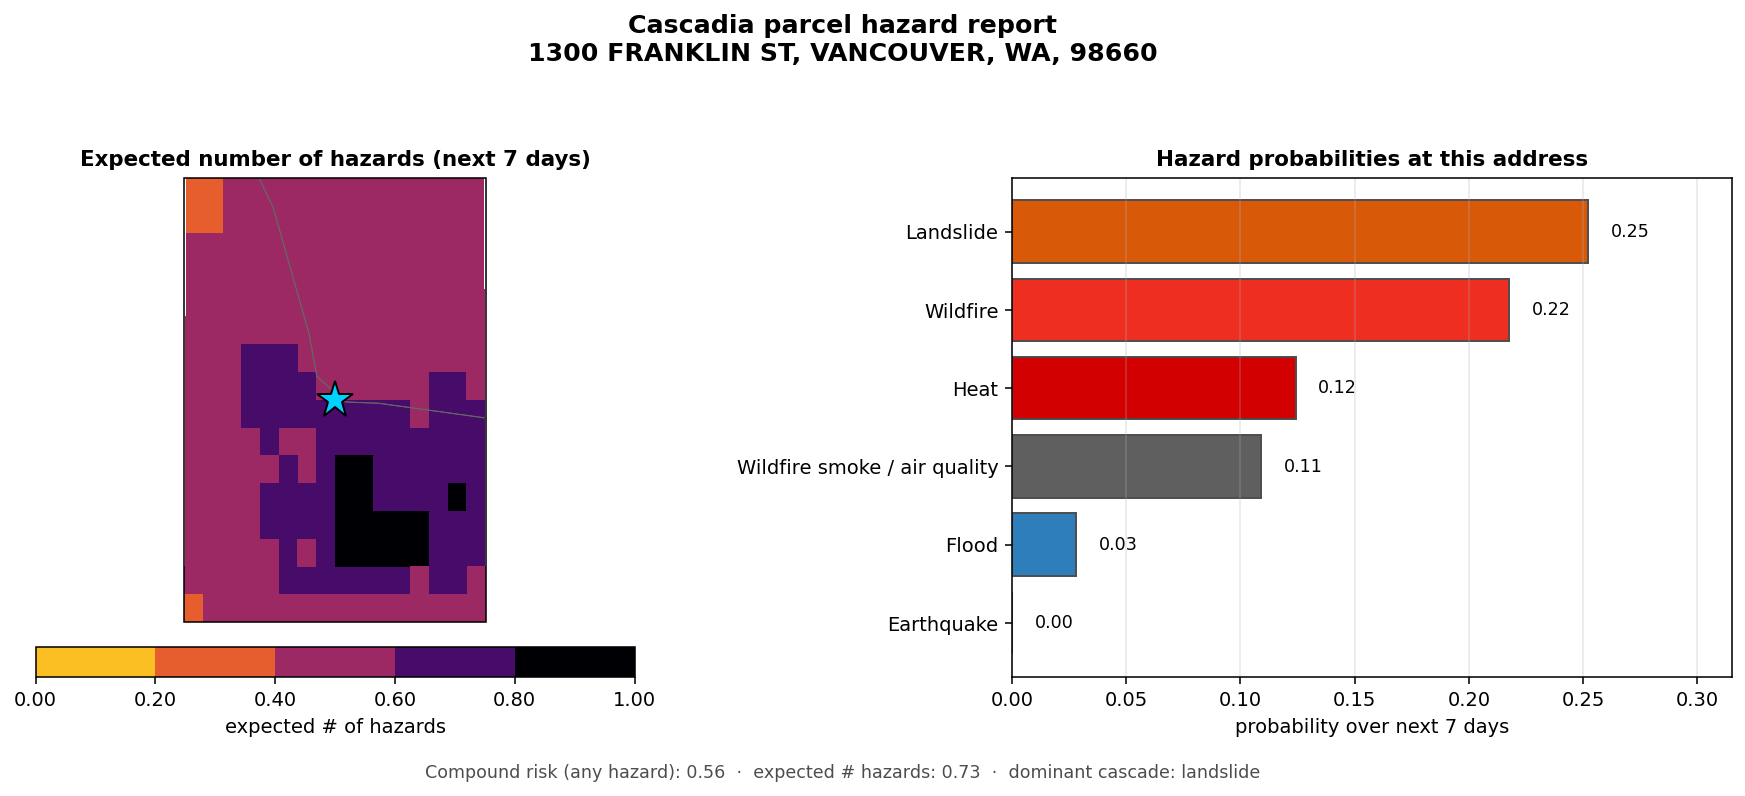
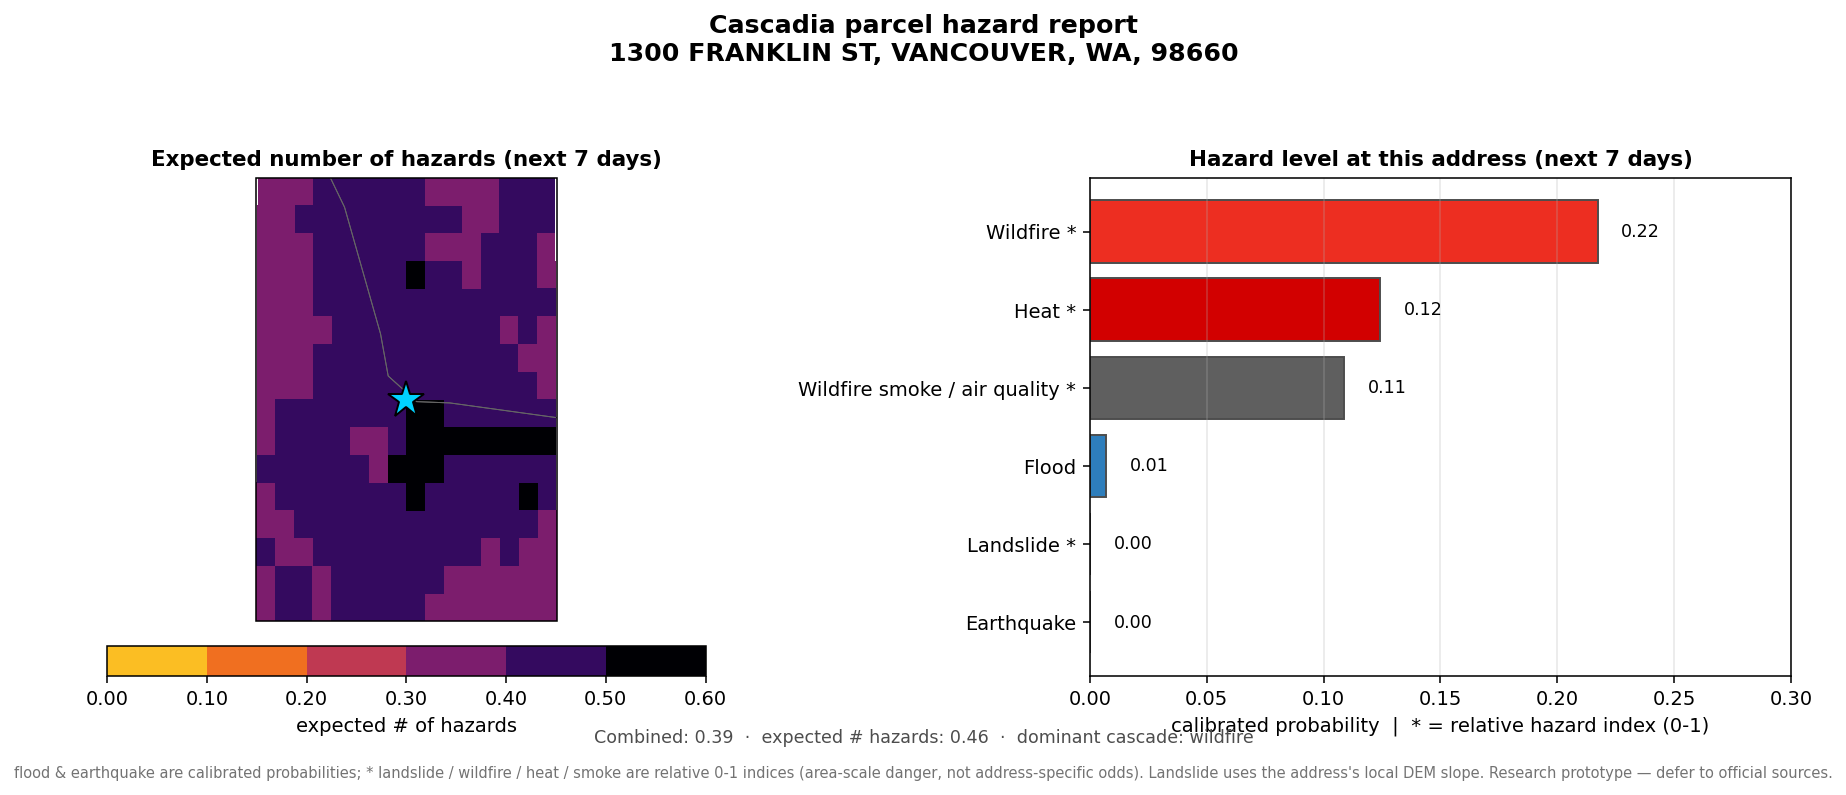
DEM slope for landslide + honest calibrated-vs-index labeling
Fixes the parcel example where a FLAT downtown lot showed landslide 0.25:
- sources/elevation.py: free Open-Meteo DEM -> per-cell slope (grid) and a
  fine local slope at a point (parcel), with a slope_factor (flat<3deg -> 0).
- _p_landslide now gates susceptibility by slope, so a flat lot in a slide-prone
  region is correctly stable. Wired into live + conditions pipelines; the parcel
  report uses the address's LOCAL 250m slope. Result: 1300 Franklin St landslide
  0.25 -> 0.00 (slope 1.2deg).
- Honest relabeling: predictors.HAZARD_KIND marks flood & earthquake as
  calibrated probabilities, landslide/wildfire/heat/smoke as relative 0-1
  indices. Parcel report (chart + footnote) and JSON (`note`, `hazard_kind`) and
  README now state this clearly.

diff --git a/cascadia/sources/elevation.py b/cascadia/sources/elevation.py
@@ -1,0 +1,95 @@
+"""Terrain slope from a free DEM (Open-Meteo elevation API, Copernicus ~90 m).
+
+Landslides are fundamentally a *slope* phenomenon, but the landslide-inventory
+density prior only knows *where slides have happened* regionally — it can't tell a
+flat valley floor from the hillside next to it. Adding slope fixes that: a flat
+downtown lot in a landslide-prone region is correctly downweighted.
+
+No API key. Elevation barely changes, so results are cached aggressively.
+"""
+from __future__ import annotations
+
+import hashlib
+import json
+from pathlib import Path
+
+import numpy as np
+import requests
+
+ELEV_URL = "https://api.open-meteo.com/v1/elevation"
+
+
+def _fetch_elevations(lats, lons, timeout: int = 60) -> np.ndarray:
+    """Elevation (m) for points, in chunks of 100 (the API limit)."""
+    lats, lons = np.asarray(lats, float), np.asarray(lons, float)
+    out = np.full(len(lats), np.nan)
+    for i in range(0, len(lats), 100):
+        sl = slice(i, i + 100)
+        params = {"latitude": ",".join(f"{v:.5f}" for v in lats[sl]),
+                  "longitude": ",".join(f"{v:.5f}" for v in lons[sl])}
+        try:
+            r = requests.get(ELEV_URL, params=params, timeout=timeout)
+            r.raise_for_status()
+            out[sl] = r.json()["elevation"]
+        except Exception:
+            pass
+    return out
+
+
+def point_slope(lat: float, lon: float, d: float = 0.0025) -> float:
+    """Local slope (degrees) at a point, from a ~250 m DEM stencil (center+NSEW)."""
+    pts_lat = [lat, lat + d, lat - d, lat, lat]
+    pts_lon = [lon, lon, lon, lon + d, lon - d]
+    e = _fetch_elevations(pts_lat, pts_lon)
+    if np.isnan(e).any():
+        return float("nan")
+    coslat = np.cos(np.radians(lat))
+    dz_dy = (e[1] - e[2]) / (2 * d * 111000.0)
+    dz_dx = (e[3] - e[4]) / (2 * d * 111000.0 * coslat)
+    return float(np.degrees(np.arctan(np.hypot(dz_dx, dz_dy))))
+
+
+def cell_slopes(cells, cache_dir: Path, res_deg: float) -> np.ndarray:
+    """Slope (degrees) per grid cell, from cell-centre elevations + neighbour
+    finite differences. Cached per region (elevation is static)."""
+    lats = cells["lat"].to_numpy(); lons = cells["lon"].to_numpy()
+    key = hashlib.sha1(
+        f"{lats.min():.3f}_{lats.max():.3f}_{lons.min():.3f}_{lons.max():.3f}"
+        f"_{res_deg}_{len(lats)}".encode()).hexdigest()[:16]
+    cache = Path(cache_dir) / f"slope_{key}.json"
+    if cache.exists():
+        try:
+            return np.array(json.loads(cache.read_text()))
+        except Exception:
+            pass
+    elev = _fetch_elevations(lats, lons)
+    look = {(round(la, 4), round(lo, 4)): e
+            for la, lo, e in zip(lats, lons, elev)}
+
+    def g(la, lo):
+        return look.get((round(la, 4), round(lo, 4)), np.nan)
+
+    slopes = np.zeros(len(lats))
+    for i, (la, lo) in enumerate(zip(lats, lons)):
+        e0 = elev[i]
+        if np.isnan(e0):
+            continue
+        en, es = g(la + res_deg, lo), g(la - res_deg, lo)
+        ee, ew = g(la, lo + res_deg), g(la, lo - res_deg)
+        en = e0 if np.isnan(en) else en; es = e0 if np.isnan(es) else es
+        ee = e0 if np.isnan(ee) else ee; ew = e0 if np.isnan(ew) else ew
+        coslat = np.cos(np.radians(la))
+        dz_dy = (en - es) / (2 * res_deg * 111000.0)
+        dz_dx = (ee - ew) / (2 * res_deg * 111000.0 * coslat)
+        slopes[i] = np.degrees(np.arctan(np.hypot(dz_dx, dz_dy)))
+    try:
+        cache.write_text(json.dumps(slopes.tolist()))
+    except Exception:
+        pass
+    return slopes
+
+
+def slope_factor(slope_deg) -> np.ndarray:
+    """Landslide slope susceptibility multiplier in [0,1]: ~0 below ~3 deg
+    (flat = stable), rising to 1 by ~20 deg. Linear ramp 3->20 degrees."""
+    return np.clip((np.asarray(slope_deg, float) - 3.0) / 17.0, 0.0, 1.0)

diff --git a/cascadia/parcel.py b/cascadia/parcel.py
@@ -11,6 +11,7 @@ from dataclasses import dataclass, field
 
 from pathlib import Path
 
+import numpy as np
 import pandas as pd
 
 from .config import Config
@@ -82,14 +83,33 @@ def assess_point(lat: float, lon: float, config: Config | None = None,
     res = run_pipeline(cfg, verbose=False)
     risk = res.risk
     d2 = (risk["lat"] - lat) ** 2 + (risk["lon"] - lon) ** 2
-    row = risk.loc[d2.idxmin()]
+    idx = d2.idxmin()
+    row = risk.loc[idx]
     hazards = {h: float(row[f"p_{h}"]) for h in
                ["earthquake", "landslide", "flood", "wildfire", "heat", "smoke"]
                if f"p_{h}" in row}
+
+    # Refine landslide with the ACTUAL local slope at the address (a ~250 m DEM
+    # stencil), instead of the ~5 km cell average — so a flat lot reads as stable.
+    try:
+        from .sources.elevation import point_slope
+        from .models.predictors import _p_landslide
+        feats = res.features
+        frow = feats[feats["cell_id"] == row["cell_id"]].iloc[0].copy()
+        slope = point_slope(lat, lon)
+        if np.isfinite(slope):
+            frow["slope_deg"] = slope
+            hazards["landslide"] = float(_p_landslide(pd.DataFrame([frow]))[0])
+    except Exception:
+        pass
+
+    # Recompute compound metrics from the (refined) per-hazard probabilities.
+    ps = np.array(list(hazards.values()))
+    compound = float(1 - np.prod(1 - ps))
+    expected = float(ps.sum())
     return ParcelRisk(
         lat=lat, lon=lon, address=address,
-        compound_risk=float(row["compound_risk"]),
-        expected_hazards=float(row["expected_hazards"]),
+        compound_risk=compound, expected_hazards=expected,
         dominant_chain=str(row.get("dominant_chain", "")),
         co_occurring=str(row.get("co_occurring", "")),
         hazards=hazards,
@@ -148,10 +168,12 @@ def parcel_report(address: str, out_path: str | Path = "cascadia_parcel_map.png"
                       shrink=1.0, fraction=0.06, pad=0.05, ticks=edges)
     cb.set_ticklabels([_fmt(e, vmax) for e in edges]); cb.set_label("expected # of hazards")
 
-    # Bar chart of this parcel's per-hazard probabilities.
+    # Bar chart of this parcel's per-hazard scores, flagging calibrated vs index.
+    from .models.predictors import CALIBRATED
     ax2 = fig.add_subplot(1, 2, 2)
     order = sorted(pr.hazards.items(), key=lambda kv: kv[1])
-    names = [HAZARD_TITLES.get(f"p_{k}", k) for k, _ in order]
+    names = [HAZARD_TITLES.get(f"p_{k}", k) + ("" if k in CALIBRATED else " *")
+             for k, _ in order]
     vals = [v for _, v in order]
     colors = [plt.get_cmap(HAZARD_CMAPS.get(f"p_{k}", "YlOrRd"))(0.7) for k, _ in order]
     bars = ax2.barh(names, vals, color=colors, edgecolor="0.3")
@@ -159,14 +181,20 @@ def parcel_report(address: str, out_path: str | Path = "cascadia_parcel_map.png"
         ax2.text(v + 0.01, b.get_y() + b.get_height() / 2, f"{v:.2f}",
                  va="center", fontsize=9)
     ax2.set_xlim(0, max(0.3, max(vals) * 1.25))
-    ax2.set_xlabel("probability over next 7 days")
-    ax2.set_title("Hazard probabilities at this address", fontsize=11, weight="bold")
+    ax2.set_xlabel("calibrated probability  |  * = relative hazard index (0-1)")
+    ax2.set_title("Hazard level at this address (next 7 days)", fontsize=11, weight="bold")
     ax2.grid(axis="x", alpha=0.3)
 
     fig.suptitle(f"Cascadia parcel hazard report\n{pr.address}", fontsize=13, weight="bold")
-    fig.text(0.5, 0.005, f"Compound risk (any hazard): {pr.compound_risk:.2f}  ·  "
-             f"expected # hazards: {pr.expected_hazards:.2f}  ·  "
-             f"dominant cascade: {pr.dominant_chain or '—'}", ha="center", fontsize=9, color="0.3")
+    fig.text(0.5, 0.05, f"Combined: {pr.compound_risk:.2f}  ·  expected # hazards: "
+             f"{pr.expected_hazards:.2f}  ·  dominant cascade: {pr.dominant_chain or '—'}",
+             ha="center", fontsize=9, color="0.3")
+    fig.text(0.5, 0.005,
+             "flood & earthquake are calibrated probabilities; * landslide / wildfire / "
+             "heat / smoke are relative 0-1 indices (area-scale danger, not address-"
+             "specific odds). Landslide uses the address's local DEM slope. "
+             "Research prototype — defer to official sources.",
+             ha="center", fontsize=7.5, color="0.45", wrap=True)
     fig.tight_layout(rect=[0, 0.03, 1, 0.93])
     out_path = Path(out_path)
     fig.savefig(out_path, dpi=140, bbox_inches="tight")
@@ -185,6 +213,13 @@ def assess_address(address: str, config: Config | None = None) -> dict:
                 "error": "address could not be geocoded"}
     pr = assess_point(g.lat, g.lon, config=config, state=g.state,
                       address=g.matched_address)
+    from .models.predictors import HAZARD_KIND
     out = pr.to_dict()
     out["matched"] = True
+    out["hazard_kind"] = {h: HAZARD_KIND.get(h, "index") for h in pr.hazards}
+    out["note"] = (
+        "flood & earthquake are calibrated probabilities; landslide/wildfire/heat/"
+        "smoke are relative 0-1 hazard indices (area-scale danger, ~5km, not "
+        "address-specific odds). Landslide is refined by the address's local DEM "
+        "slope. Research prototype — not for operational decisions.")
     return out

diff --git a/cascadia/models/predictors.py b/cascadia/models/predictors.py
@@ -20,6 +20,20 @@ import pandas as pd
 
 HAZARDS = ["earthquake", "landslide", "flood", "wildfire", "heat", "smoke"]
 
+# How honestly each leaf's number can be read. "probability" = a calibrated or
+# physically-derived probability; "index" = a relative 0-1 hazard score (NOT a
+# calibrated probability of occurrence). Surfaced in reports so users don't
+# over-read the index hazards.
+HAZARD_KIND = {
+    "flood": "probability",        # trained model, isotonic-calibrated (validated)
+    "earthquake": "probability",   # smoothed-seismicity Poisson prior
+    "landslide": "index",          # inventory susceptibility x slope x rain trigger
+    "wildfire": "index",           # GRIDMET fire-weather danger
+    "heat": "index",               # heat-index / wet-bulb
+    "smoke": "index",              # downwind plume transport
+}
+CALIBRATED = {h for h, k in HAZARD_KIND.items() if k == "probability"}
+
 
 def _sigmoid(x: np.ndarray | float) -> np.ndarray | float:
     return 1.0 / (1.0 + np.exp(-x))
@@ -65,6 +79,11 @@ def _p_landslide(f: pd.DataFrame) -> np.ndarray:
     sat = _saturation(f["soil_moist_peak"].to_numpy())
     trigger = _sigmoid(0.05 * (precip - 40.0) + 2.5 * (sat - 0.6))
     suscept = f["ls_susceptibility"].to_numpy() if "ls_susceptibility" in f else 0.5
+    # Slope gate: landslides need a slope. A flat lot in a slide-prone region
+    # (high inventory density) is still stable. Falls back to 1.0 if no DEM.
+    if "slope_deg" in f:
+        from ..sources.elevation import slope_factor
+        suscept = suscept * slope_factor(f["slope_deg"].to_numpy())
     return np.clip(suscept * trigger, 1e-4, 0.999)
 
 

diff --git a/cascadia/features/indicators.py b/cascadia/features/indicators.py
@@ -254,6 +254,7 @@ def build_indicators(
     catalog: pd.DataFrame | None = None,
     inventory: pd.DataFrame | None = None,
     gridmet_cube=None,
+    cache_dir=None,
     horizon_days: int = 7,
 ) -> pd.DataFrame:
     """Fuse all sources into one per-cell indicator table."""
@@ -285,6 +286,14 @@ def build_indicators(
 
     # --- Landslide susceptibility prior (smoothed USGS inventory density).
     cells["ls_susceptibility"] = _landslide_susceptibility(cells, inventory)
+
+    # --- Terrain slope (DEM) so flat ground is correctly stable.
+    if cache_dir is not None:
+        try:
+            from ..sources.elevation import cell_slopes
+            cells["slope_deg"] = cell_slopes(cells, cache_dir, grid.res)
+        except Exception:
+            pass
 
     # --- GRIDMET 4km fire/heat variables (burning index, ERC, fuel moisture,
     #     VPD, heat index, wet-bulb), sampled to cells. Optional.

diff --git a/cascadia/conditions.py b/cascadia/conditions.py
@@ -134,6 +134,11 @@ def conditions_map(region_key: str = "pnw", resolution_deg: float | None = None,
     cells["quake_mag"] = 0.0   # no per-cell aftershock layer in the broad nowcast
     inv = LandslideInventory(cfg).fetch()
     cells["ls_susceptibility"] = _landslide_susceptibility(cells, inv)
+    try:
+        from .sources.elevation import cell_slopes
+        cells["slope_deg"] = cell_slopes(cells, cfg.cache_dir, res)
+    except Exception:
+        pass
     log(f"priors: {len(cat)} quakes, {len(inv)} landslides")
 
     # --- observed fire + downwind smoke transport ------------------------

diff --git a/cascadia/pipeline.py b/cascadia/pipeline.py
@@ -102,6 +102,7 @@ def run_pipeline(config: Config | None = None, verbose: bool = True) -> Pipeline
         catalog=raw["catalog"],
         inventory=raw["inventory"],
         gridmet_cube=gridmet_cube,
+        cache_dir=config.cache_dir,
         horizon_days=config.horizon_days,
     )
     log(f"   {len(features)} cells x {features.shape[1]} features")

diff --git a/README.md b/README.md
@@ -38,7 +38,7 @@ The name is a double meaning: the **Cascadia** bioregion (Pacific Northwest)
 
 ![CONUS impact](docs/impact_conus.png)
 
-**Address‑level report** (`run.ps1 parcel "..."`) — a locator map + per‑hazard probabilities for any US address:
+**Address‑level report** (`run.ps1 parcel "..."`) — a locator map + per‑hazard levels for any US address. Flood & earthquake are **calibrated probabilities**; the `*` hazards are **relative 0–1 indices** (area‑scale danger, not address‑specific odds). Landslide is refined by the address's **local DEM slope**, so a flat lot reads as stable:
 
 ![Parcel report](docs/parcel_report.png)
 
@@ -197,7 +197,8 @@ run.py / run.ps1 / run.bat   one-command launcher
 ## Honest limitations
 
 - **Research prototype.** Not validated for operational use; defer to official agencies.
-- Only **flood** is a fully label‑validated ML model; other hazards are physically‑grounded priors/indices (clean national labels are scarce).
+- **Calibrated vs. index:** only **flood** (and the **earthquake** seismic prior) are calibrated probabilities. **Landslide / wildfire / heat / smoke are relative 0–1 hazard indices** — area‑scale danger, *not* calibrated odds of occurrence. Reports flag them with `*`.
+- Maps are **~4–5 km cells**; the parcel report refines landslide with a local DEM slope, but other hazards remain area‑scale.
 - The **seasonal outlook** has near‑zero out‑of‑sample probabilistic skill (ENSO is a weak US predictor) — it's a labeled weak guide.
 - GRIDMET/Census are **US‑only**; live forecasting is point‑sampled (region size is bounded by API limits).
 